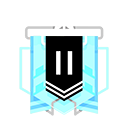
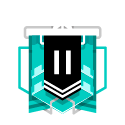
recolor assets

diff --git a/packages/types/src/index.ts b/packages/types/src/index.ts
@@ -135,13 +135,14 @@ export const R6_PRESENCE_REGEXPS = [
 ];
 
 export const RANK_COLORS = [
-    0x231f20,
-    0x7c2b00, 0x7c2b00, 0x7c2b00, 0x7c2b00,
-    0xbc783c, 0xbc783c, 0xbc783c, 0xbc783c,
-    0xa5a5a5, 0xa5a5a5, 0xa5a5a5, 0xa5a5a5,
-    0xedaf35, 0xedaf35, 0xedaf35, 0xedaf35,
-    0xb6ffff, 0xb6ffff, 0xb6ffff,
-    0xc07bde,
+    0x1f191a,
+    0x902700, 0x902700, 0x902700, 0x902700, 0x902700,
+    0xd17935, 0xd17935, 0xd17935, 0xd17935, 0xd17935,
+    0xa7a7a7, 0xa7a7a7, 0xa7a7a7, 0xa7a7a7, 0xa7a7a7,
+    0xffb120, 0xffb120, 0xffb120,
+    0x00cdc1, 0x00cdc1, 0x00cdc1,
+    0xa67df8,
+    0xff0784,
 ];
 
 export const RANK_BADGES = [
